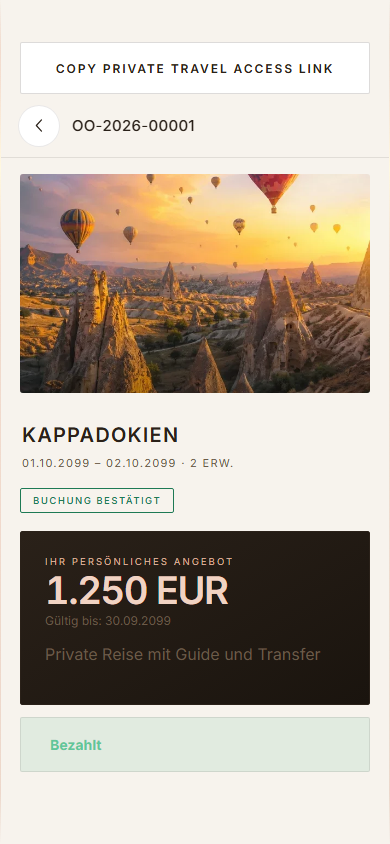
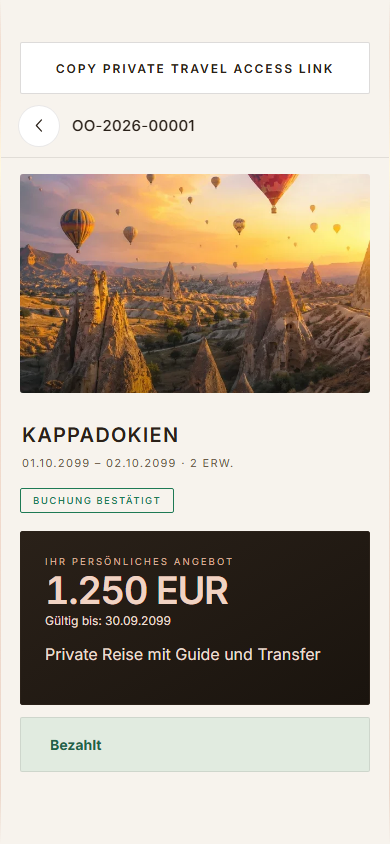
fix: preserve public content during loading and improve portal contrast

diff --git a/public/index.html b/public/index.html
@@ -13,12 +13,12 @@
 <meta name="apple-mobile-web-app-status-bar-style" content="black-translucent">
 <link rel="icon" href="./icons/favicon.svg" type="image/svg+xml">
 <link rel="apple-touch-icon" href="./icons/apple-touch-icon.png">
-<link rel="manifest" href="./manifest.webmanifest?v=20260918-1348-d33f918">
+<link rel="manifest" href="./manifest.webmanifest?v=20260918-1351-de0349e">
 <link rel="preload" as="image" href="./images/onlyone-hero-poster-v4.webp">
 <!-- The platform hero shows the moment the intro ends. Fetching its first
      photograph now, while the intro is still playing, means it is decoded and
      waiting instead of starting from zero at the hand-over. -->
-<link rel="stylesheet" href="./css/app.css?v=20260918-1348-d33f918">
+<link rel="stylesheet" href="./css/app.css?v=20260918-1351-de0349e">
 <link rel="stylesheet" href="./css/responsive.css">
 </head>
 <body>
@@ -149,7 +149,7 @@
      is maintained by hand.
      ====================================================================== */
 
-  var CURRENT_BUILD = "20260918-1348-d33f918";
+  var CURRENT_BUILD = "20260918-1351-de0349e";
   window.ONLYONE_BUILD = CURRENT_BUILD;
 
   var VERSION_URL = "./version.json";
@@ -381,9 +381,9 @@
   check(true);
 })();
 </script>
-<link rel="stylesheet" href="./css/catalog.css?v=20260918-1348-d33f918">
-<script src="./js/catalog.js?v=20260918-1348-d33f918" defer></script>
-<script src="./js/backend.js?v=20260918-1348-d33f918" defer></script>
-<script src="./js/app.js?v=20260918-1348-d33f918" defer></script>
+<link rel="stylesheet" href="./css/catalog.css?v=20260918-1351-de0349e">
+<script src="./js/catalog.js?v=20260918-1351-de0349e" defer></script>
+<script src="./js/backend.js?v=20260918-1351-de0349e" defer></script>
+<script src="./js/app.js?v=20260918-1351-de0349e" defer></script>
 </body>
 </html>

diff --git a/public/js/app.js b/public/js/app.js
@@ -5066,7 +5066,10 @@
     if(q){sessionStorage.removeItem('onlyone.payreturn');PAYRET=new URLSearchParams(q);}
   }catch(e){}
   window.ONLYONE.boot = async function(){
-    await BACKEND.init();
+    const loading=BACKEND.init();
+    if(!VIEW.name)VIEW={name:'home',param:null};
+    render();
+    await loading;
     if(PAYRET&&PAYRET.get('pay')){
       const ok=S.requests.some(r=>r.id===PAYRET.get('oid')&&r.payment?.status==='paid');
       const r=S.requests.find(x=>x.id===PAYRET.get('oid'));

diff --git a/public/css/responsive.css b/public/css/responsive.css
@@ -17,3 +17,5 @@
  .wrap{max-width:1240px;margin-inline:auto;padding-left:32px;padding-right:32px}
  .pHero .appbar{z-index:30}
 }
+
+.priceBox .muted{color:#eaded1}.wrap{--ok:#216348}
